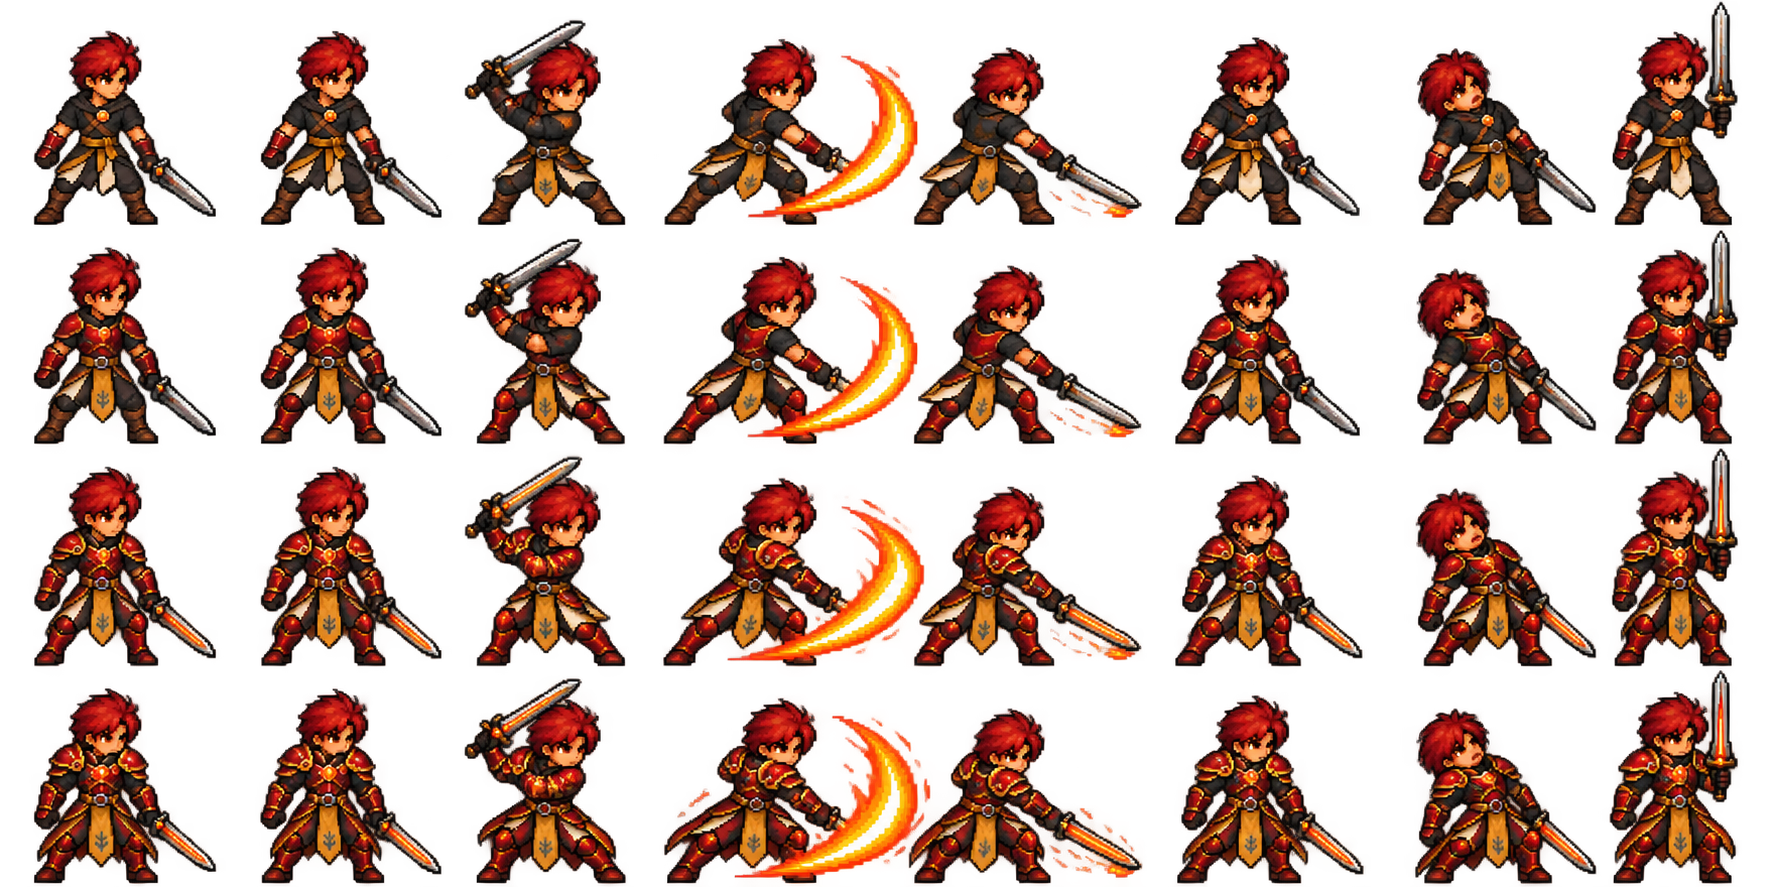
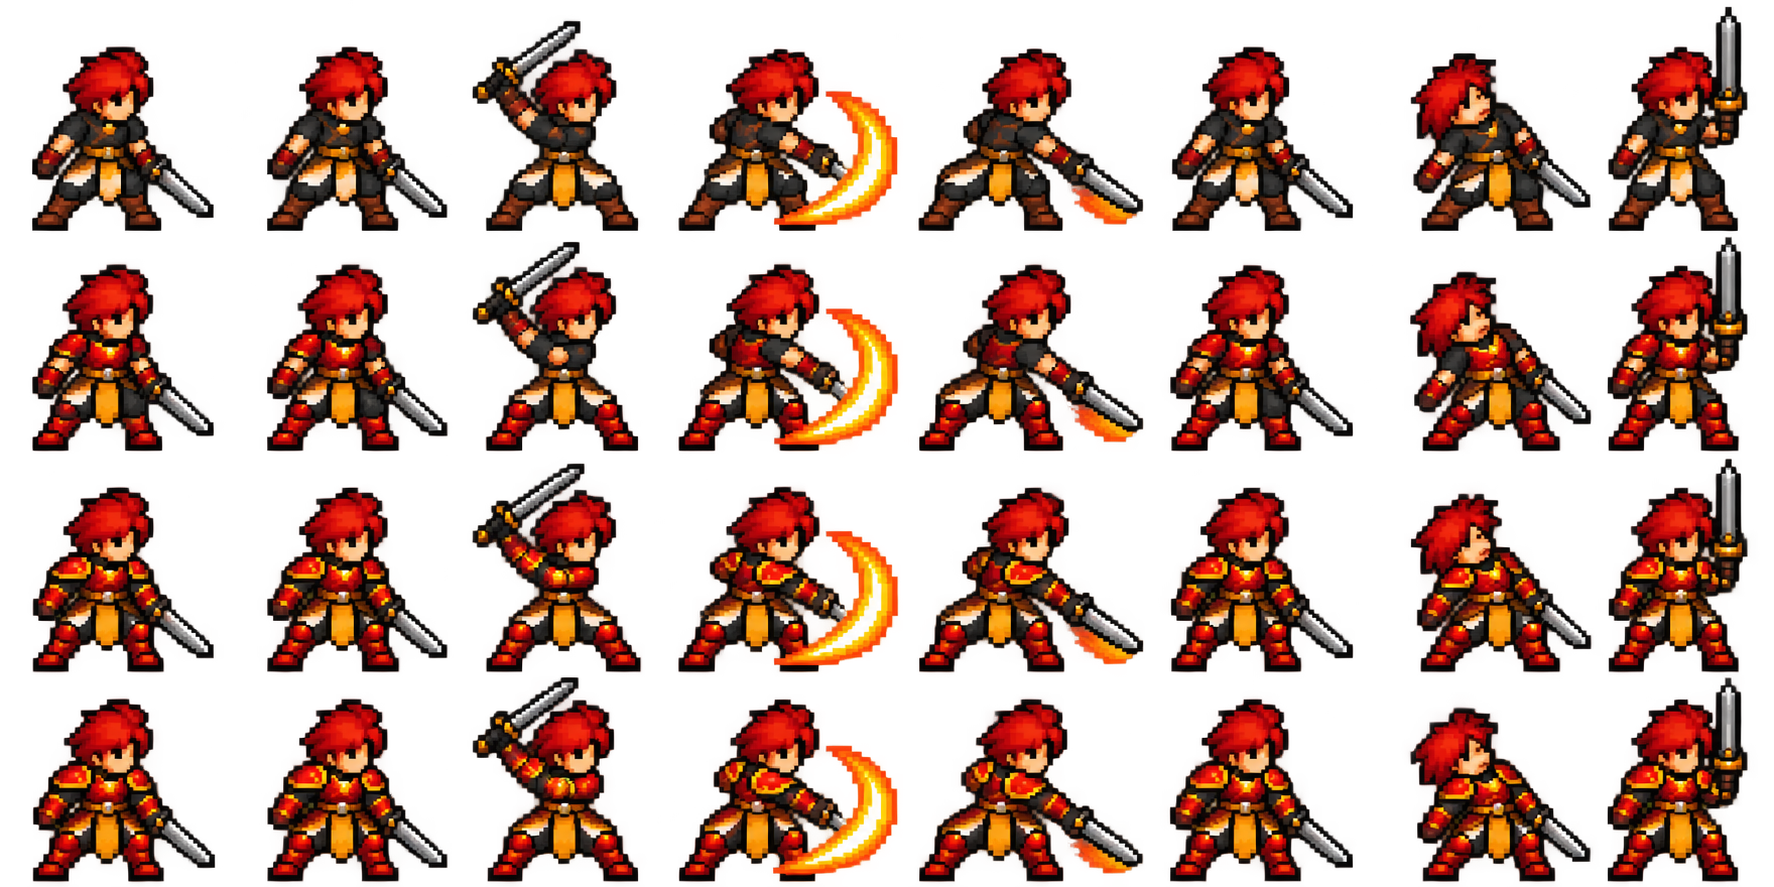
Kael: switch to the new owner reference sheet; derive missing frames (breathing, recoil, guard crouch, kneel/fall, Burst glow, lunges)
Claude-Session: https://claude.ai/code/session_018FD9XXPN18zgpdgkPrG4jT

diff --git a/tools/import_kael.py b/tools/import_kael.py
@@ -1,70 +1,119 @@
 """
 Builds Kael's three battle sheets from the owner-supplied art tools/art_src/kael_tiers.png
-(4 evolution tiers x 8 poses, transparent PNG, facing right).  Run: python3 tools/import_kael.py
+(4 evolution tiers x 8 poses, transparent PNG, facing right like every hero sheet - the game flips heroes so they
+face the enemies).  Run: python3 tools/import_kael.py
 
-Poses per row: 0 idle, 1 idle-breath, 2 wind-up, 3 slash (with arc), 4 follow-through, 5 ready, 6 hurt, 7 victory.
-Frames are re-assembled into the game's animation rows (hit frames match hero_skills.json) and scaled 2/3 so the
-body is ~128 px (drawn at x2 in battle; UI views use the sheet's ui_scale).
+Source poses per row: 0 idle, 1 idle-2, 2 wind-up, 3 slash (arc), 4 follow-through, 5 ready, 6 hurt, 7 victory.
+Missing in-betweens (breathing, recoil, crouch/guard, kneel, fall, Burst glow, lunges) are derived from those poses.
+Frames are scaled 2/3 (body ~128 px, drawn x2 in battle; UI views use the sheet's ui_scale). Hit frames match
+hero_skills.json (attack 2/4, Burst 3/5/7/9).
 """
 import json
 import os
-from PIL import Image
+import numpy as np
+from PIL import Image, ImageFilter
 
 SRC = os.path.join(os.path.dirname(__file__), 'art_src', 'kael_tiers.png')
 OUT = os.path.join(os.path.dirname(__file__), '..', 'Content', 'assets', 'characters')
 FORM_ROWS = {'kael_emberclaw': 0, 'kael_blazeheart': 1, 'kael_cinderlord': 3}   # tier row used for each form
-BANDS = [(1, 226), (230, 445), (448, 667), (670, 884)]                        # y range of each tier in the source
-# x crop of each pose and the x between its feet (the anchor); pose 3/4 share a strip, split at x=916
-POSES = [(30, 220, 95.5), (256, 446, 322.5), (460, 630, 551), (660, 916, 740.5), (916, 1146, 983.5),
-         (1170, 1368, 1237.5), (1410, 1600, 1487), (1604, 1742, 1673)]
 CW, CH, FEET = 360, 234, 228            # source-scale frame, feet row
 S = 2 / 3                               # -> 240 x 156 frames, feet on row 152 (= frame - 4, the game's anchor)
 FW, FH = round(CW * S), round(CH * S)
-ANIMS = [('idle', [0, 0, 1, 1], 4, True),
-         ('attack', [5, 2, 3, 3, 4, 4, 5], 14, False),              # hits on frames 2 and 4
-         ('hit', [6, 6, 5], 10, False),
-         ('victory', [7, 7, 7, 7], 6, True),
-         ('ko', [6, 'down'], 6, False),
-         ('burst', [5, 2, 2, 3, 4, 3, 2, 3, 4, 3, 7], 12, False),   # hits on 3, 5, 7, 9
-         ('guard', [5, 5, 5], 6, True)]
 
 
-def pose(src, row, i):
-    y0, y1 = BANDS[row]
-    x0, x1, ax = POSES[i]
-    part = src.crop((x0, y0, x1, y1 + 1))
-    if i == 4:   # the previous pose's slash arc spills into this strip: clear it above the legs
-        part.paste((0, 0, 0, 0), (0, 0, 940 - x0, (y1 - y0) - 60))
-    if i == 3:   # ...and the next pose's back foot pokes into this one
-        part.paste((0, 0, 0, 0), (906 - x0, (y1 - y0) - 30, x1 - x0, y1 - y0 + 1))
-    fr = Image.new('RGBA', (CW, CH), (0, 0, 0, 0))
-    fr.alpha_composite(part, (round(CW / 2 - (ax - x0)), FEET - (y1 - y0)))
-    return fr
+def runs(mask, gap):
+    xs = np.nonzero(mask)[0]
+    out, s, p = [], xs[0], xs[0]
+    for x in xs[1:]:
+        if x > p + gap:
+            out.append((s, p))
+            s = x
+        p = x
+    return out + [(s, p)]
 
 
-def down(fr):
-    """Hurt pose tipped over onto its back, lying on the ground line."""
-    r = fr.rotate(90, expand=True)
-    bb = r.getbbox()
-    c = r.crop(bb)
-    out = Image.new('RGBA', (CW, CH), (0, 0, 0, 0))
-    out.alpha_composite(c, (CW // 2 - c.width // 2, FEET - c.height))
+def cut(src):
+    """-> rows of 8 frames, each pose placed with the midpoint between its feet at (CW/2, FEET)."""
+    a = np.array(src)[..., 3] > 40
+    rows = []
+    for y0, y1 in runs(a.any(1), 3):
+        poses = []
+        for x0, x1 in runs(a[y0:y1 + 1].any(0), 2):
+            feet = runs(a[y1 - 4:y1 + 1, x0:x1 + 1].any(0), 3)
+            ax = x0 + (feet[0][0] + feet[-1][1]) / 2
+            fr = Image.new('RGBA', (CW, CH), (0, 0, 0, 0))
+            fr.alpha_composite(src.crop((x0, y0, x1 + 1, y1 + 1)), (round(CW / 2 - (ax - x0)), FEET - (y1 - y0)))
+            poses.append(fr)
+        rows.append(poses)
+    return rows
+
+
+# ---- derived frames
+def shift(fr, dx=0, dy=0):
+    out = Image.new('RGBA', fr.size, (0, 0, 0, 0))
+    out.alpha_composite(fr, (dx, dy))
     return out
 
 
+def breathe(fr, d=2, waist=110):
+    """Upper body dips d px, feet stay planted."""
+    out = fr.copy()
+    top = fr.crop((0, 0, CW, FEET - waist))
+    out.paste((0, 0, 0, 0), (0, 0, CW, FEET - waist + d))
+    out.alpha_composite(top, (0, d))
+    return out
+
+
+def squash(fr, k):
+    """Crouch: compress vertically towards the feet."""
+    h = round(CH * k)
+    s = fr.resize((CW, h), Image.LANCZOS)
+    out = Image.new('RGBA', fr.size, (0, 0, 0, 0))
+    out.alpha_composite(s, (0, round(FEET - FEET * k)))
+    return out
+
+
+def glow(fr, color=(255, 138, 42), strength=0.75):
+    """Burst aura: soft fire glow behind the sprite."""
+    al = fr.getchannel('A').filter(ImageFilter.MaxFilter(9)).filter(ImageFilter.GaussianBlur(6))
+    g = Image.new('RGBA', fr.size, color + (0,))
+    g.putalpha(al.point(lambda v: int(v * strength)))
+    g.alpha_composite(fr)
+    return g
+
+
+def down(fr):
+    """Hurt pose tipped onto its back, lying on the ground line."""
+    r = fr.rotate(90, expand=True)
+    c = r.crop(r.getbbox())
+    out = Image.new('RGBA', (CW, CH), (0, 0, 0, 0))
+    out.alpha_composite(c, (CW // 2 - c.width // 2 - 20, FEET - c.height))
+    return out
+
+
+def anims(p):
+    idle0, idle1, wind, slash, follow, ready, hurt, win = p
+    return [('idle', [idle0, breathe(idle0), idle1, breathe(idle1)], 5, True),
+            ('attack', [ready, wind, slash, shift(slash, 6), follow, shift(follow, 4), ready], 14, False),
+            ('hit', [shift(hurt, -12), shift(hurt, -6), shift(ready, -2)], 10, False),
+            ('victory', [win, breathe(win), win, breathe(win)], 6, True),
+            ('ko', [squash(hurt, 0.8), down(idle0)], 6, False),
+            ('burst', [ready, glow(squash(ready, 0.94)), glow(wind), glow(slash), glow(follow), glow(shift(slash, 8)),
+                       glow(wind), glow(shift(slash, 8)), glow(follow), glow(shift(slash, 12)), glow(win)], 12, False),
+            ('guard', [squash(ready, 0.95), breathe(squash(ready, 0.95), 2), squash(ready, 0.95)], 6, True)]
+
+
 def main():
-    src = Image.open(SRC).convert('RGBA')
-    for fid, row in FORM_ROWS.items():
-        poses = [pose(src, row, i) for i in range(len(POSES))]
-        poses_by = {i: p for i, p in enumerate(poses)}
-        poses_by['down'] = down(poses[6])
-        cols = max(len(f) for _, f, _, _ in ANIMS)
-        sheet = Image.new('RGBA', (cols * FW, len(ANIMS) * FH), (0, 0, 0, 0))
+    rows = cut(Image.open(SRC).convert('RGBA'))
+    for fid, r in FORM_ROWS.items():
+        an = anims(rows[r])
+        cols = max(len(f) for _, f, _, _ in an)
+        sheet = Image.new('RGBA', (cols * FW, len(an) * FH), (0, 0, 0, 0))
         meta = {'frame_size': [FW, FH], 'ui_scale': 0.25, 'source': 'tools/art_src/kael_tiers.png', 'animations': {}}
-        for r, (name, frames, fps, loop) in enumerate(ANIMS):
-            for c, k in enumerate(frames):
-                sheet.alpha_composite(poses_by[k].convert('RGBa').resize((FW, FH), Image.LANCZOS).convert('RGBA'), (c * FW, r * FH))
-            meta['animations'][name] = {'row': r, 'frames': len(frames), 'fps': fps, 'loop': loop}
+        for ri, (name, frames, fps, loop) in enumerate(an):
+            for ci, fr in enumerate(frames):
+                sheet.alpha_composite(fr.convert('RGBa').resize((FW, FH), Image.LANCZOS).convert('RGBA'), (ci * FW, ri * FH))
+            meta['animations'][name] = {'row': ri, 'frames': len(frames), 'fps': fps, 'loop': loop}
         d = os.path.join(OUT, fid)
         os.makedirs(d, exist_ok=True)
         sheet.save(os.path.join(d, fid + '_sheet.png'))
